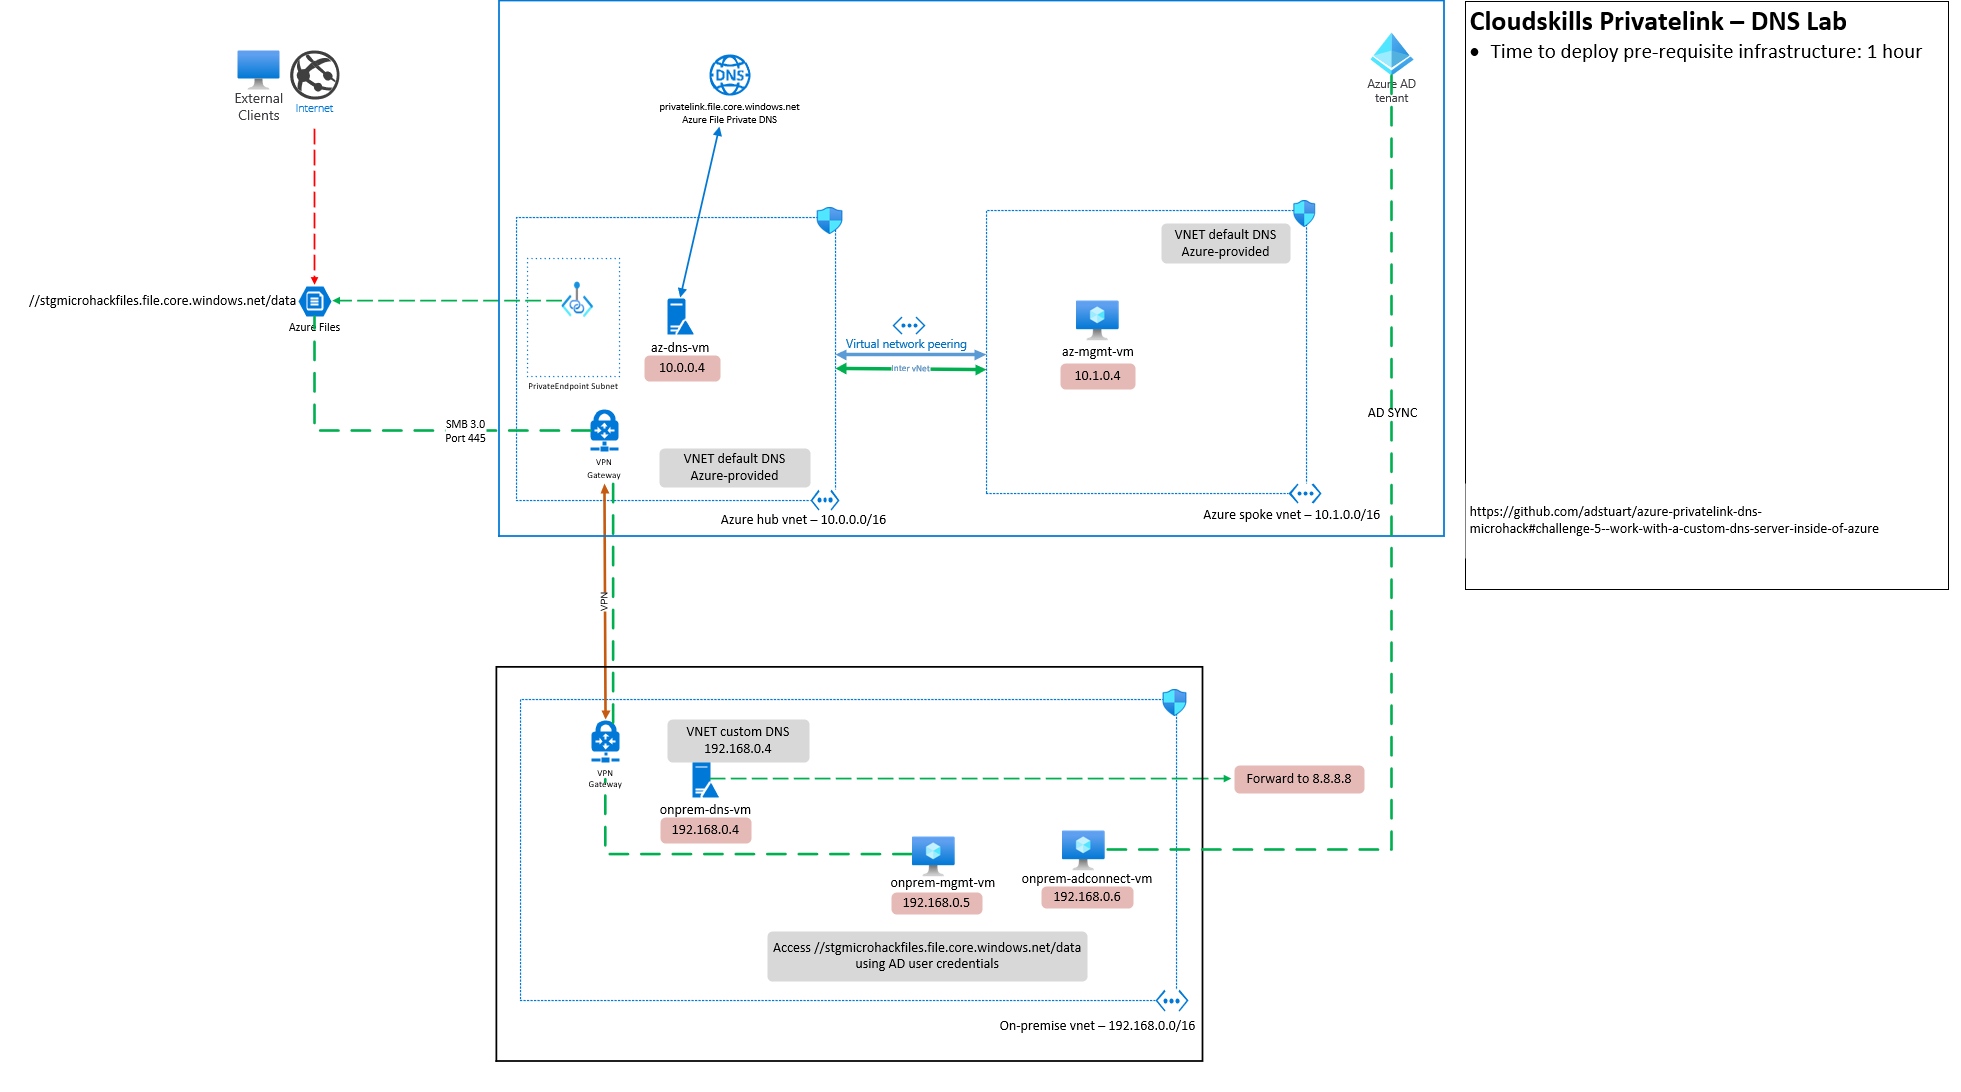
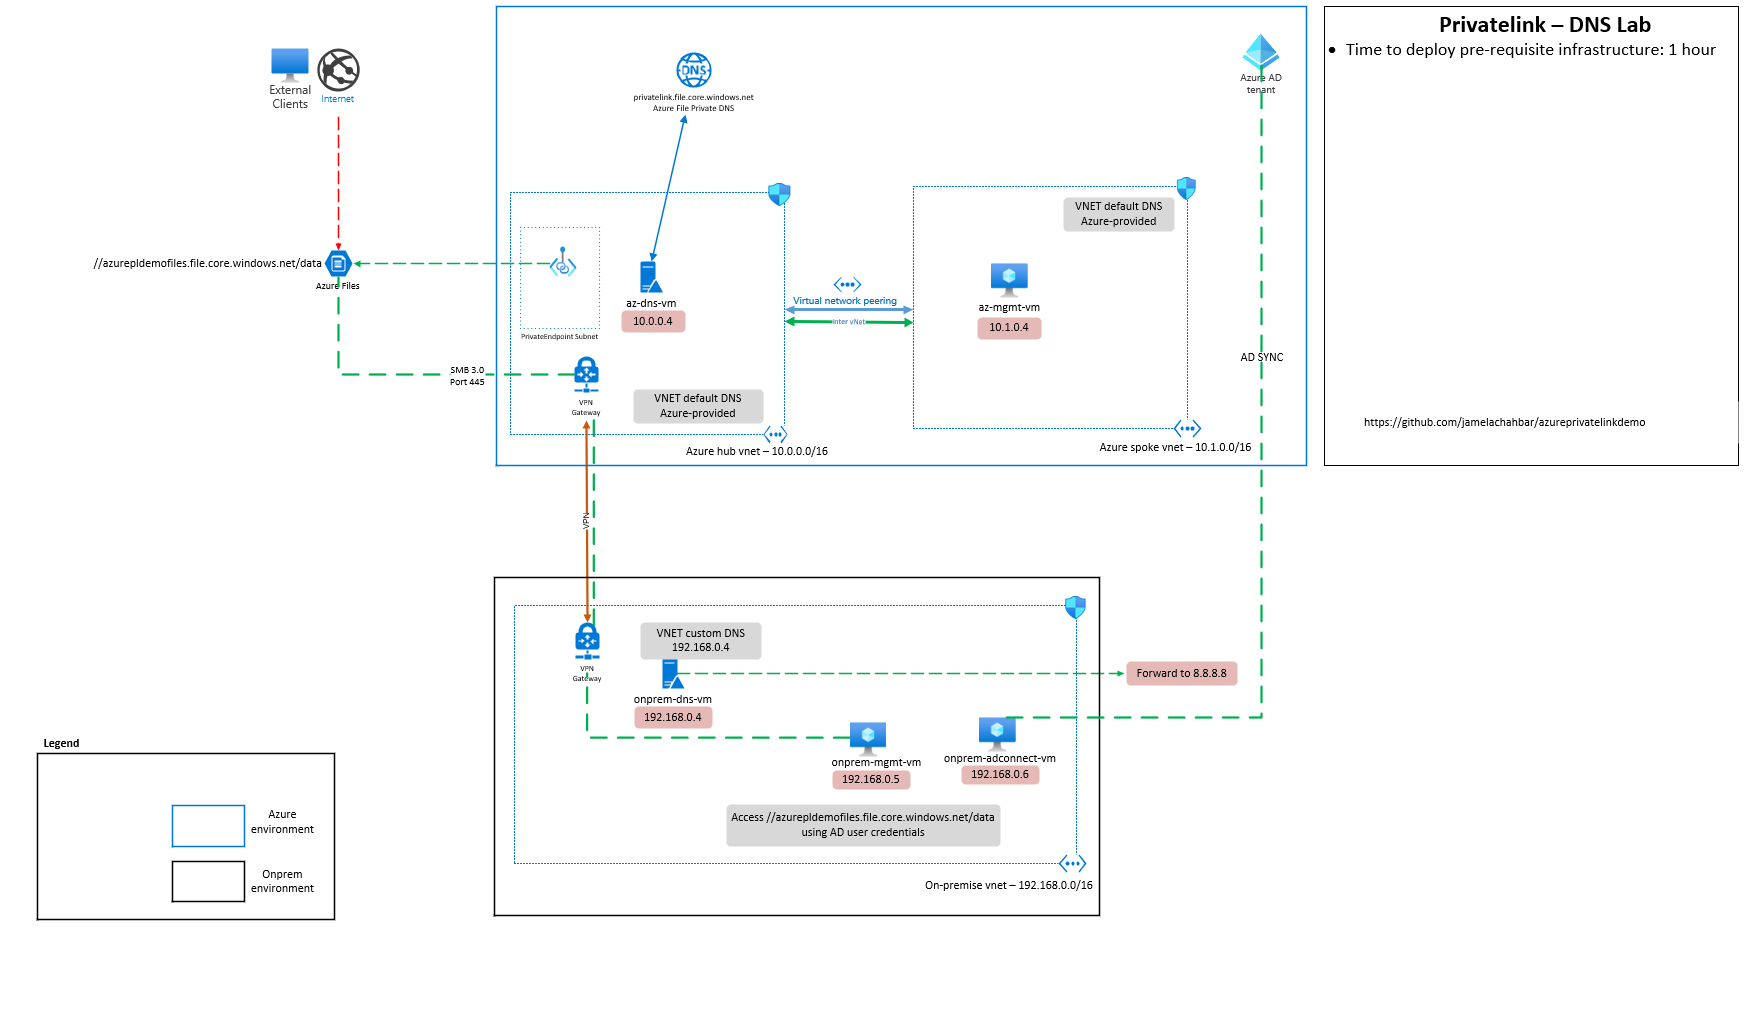
updated readme and changed infra image

diff --git a/README.md b/README.md
@@ -117,7 +117,7 @@ Repeat the same step to create a service connection for ACR:
 
 ## Create a multi Stage pipeline with Yaml
 
-First fork the [repo](https://github.com/Abdulthetechguy/Springdemo) by clicking on the fork icon on the top right
+First fork the [repo](https://github.com/abulina/azureprivatelinkdemo) by clicking on the fork icon on the top right
 
 ![forkrepo](assets/repofork.png)
 
@@ -136,11 +136,3 @@ Login to Github and authorize it for Azure DevOps. Select the forked repo and it
 **See a complete build and release below:**
 
 ![buildstages](assets/completebuild.jpeg)
-
-## Application HomePage
-
-![buildstages](assets/website.png)
-
-# Building the Project with Jenkins and Terraform on AWS
-
-Here is the link to [repo](https://github.com/Abdulthetechguy/Spring-React-CI-CD-Jenkis-AWS) that contains the project and instruction on how to build on AWS using packer,Jenkins, terraform and Ansible. Still a work in progress
